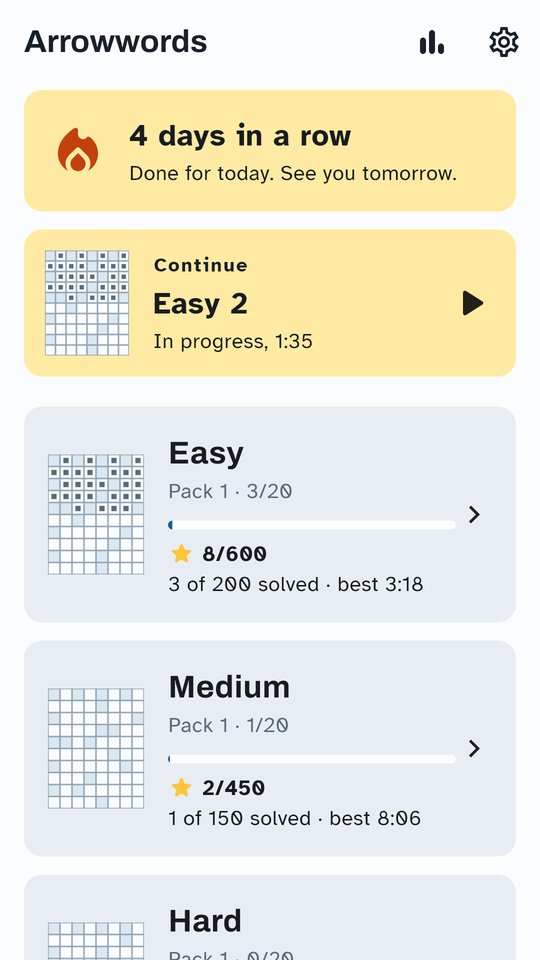
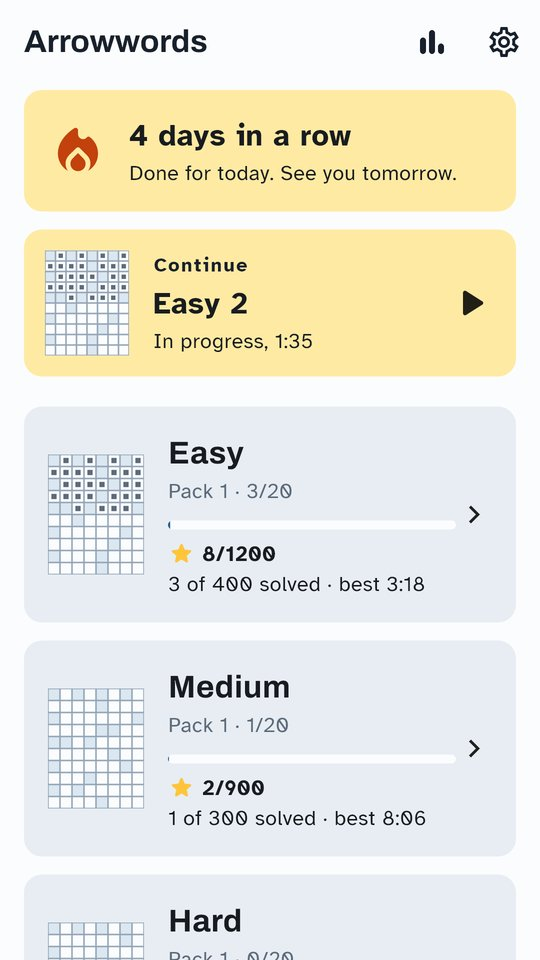
Arrowwords: Danish in the language lists; 1,000 puzzles each in American English, British English, Dutch, Polish and Danish, 500 in the other five (7,500 in all); Check is free 3 times per puzzle, then 1 hint (as in the listings); screenshots from the current en-US store shots. Pushed ahead of the 1

Changed region(s): [[0.3852, 0.8125, 0.8, 0.875], [0.3852, 0.5625, 0.5926, 0.625], [0.6222, 0.5938, 0.8, 0.625]]

diff --git a/arrowwords/index.html b/arrowwords/index.html
@@ -4,7 +4,7 @@
     <meta charset="utf-8" />
     <meta name="viewport" content="width=device-width, initial-scale=1" />
     <title>Arrowwords: Arrowword Puzzles for Android</title>
-    <meta name="description" content="Arrowword puzzles like the ones in a puzzle magazine, with the clues inside the grid. 5,000 puzzles in English, Dutch, German, Czech, Hungarian, Polish, Norwegian and Swedish, each written in its own language. Three levels, a built-in keyboard, and it plays offline." />
+    <meta name="description" content="Arrowword puzzles like the ones in a puzzle magazine, with the clues inside the grid. 7,500 puzzles in English, Dutch, German, Czech, Hungarian, Polish, Norwegian, Swedish and Danish, each written in its own language. Three levels, a built-in keyboard, and it plays offline." />
     <link rel="icon" type="image/png" href="img/favicon.png" />
     <link rel="apple-touch-icon" href="img/icon.png" />
     <link rel="canonical" href="https://driftsparklabs.github.io/arrowwords/" />
@@ -23,7 +23,7 @@
       "image": "https://driftsparklabs.github.io/arrowwords/img/icon.png",
       "operatingSystem": "ANDROID",
       "applicationCategory": "GameApplication",
-      "description": "Arrowword puzzles with the clues inside the grid: 500 puzzles each in American English, British English, Dutch, German, Czech, Hungarian, Norwegian and Swedish, and 1,000 in Polish, written in the language itself. Three levels, a built-in keyboard, free checking, and every puzzle inside the app.",
+      "description": "Arrowword puzzles with the clues inside the grid: 1,000 puzzles each in American English, British English, Dutch, Polish and Danish, and 500 each in German, Czech, Hungarian, Norwegian and Swedish, written in the language itself. Three levels, a built-in keyboard, and every puzzle inside the app.",
       "url": "https://driftsparklabs.github.io/arrowwords/",
       "installUrl": "https://play.google.com/store/apps/details?id=com.driftspark.labs.arrowwords",
       "author": { "@type": "Organization", "name": "Driftspark Labs", "url": "https://driftsparklabs.github.io/" },
@@ -143,9 +143,9 @@
           <h1>The arrowword from the puzzle magazine, on your phone</h1>
           <p class="pitch">
             The clue sits in a cell of the grid and an arrow shows where the
-            answer goes. 500 puzzles in American English and 500 in British
-            English, plus 500 each in Dutch, German, Czech, Hungarian, Norwegian and
-            Swedish, and 1,000 in Polish.
+            answer goes. 1,000 puzzles each in American English, British
+            English, Dutch, Polish and Danish, and 500 each in German, Czech,
+            Hungarian, Norwegian and Swedish.
             Every set is written in its own language, not translated.
           </p>
           <a class="store-badge" href="https://play.google.com/store/apps/details?id=com.driftspark.labs.arrowwords">
@@ -163,7 +163,7 @@
         <li><b>Easy to read</b><p>The clue for the selected word is shown large above the keyboard, so you never have to read the small cells. Zoom the grid if that reads better.</p></li>
         <li><b>Three levels</b><p>Easy, medium and hard, all the same size. The higher the level, the rarer the words and the harder the clues. Solve 10 in a pack of 20 and the next one opens.</p></li>
         <li><b>A built-in keyboard</b><p>No autocorrect getting in the way. It follows your phone's layout, such as QWERTY or AZERTY. Tap a cell twice to switch direction.</p></li>
-        <li><b>Help when you are stuck</b><p>Checking is free: wrong letters turn red. Revealing a letter or a word costs hints, and your hints are topped up to 10 every day.</p></li>
+        <li><b>Help when you are stuck</b><p>Check turns wrong letters red: free 3 times per puzzle, then 1 hint. Revealing a letter or a word costs hints, and your hints are topped up to 10 every day.</p></li>
         <li><b>Challenge a friend</b><p>After a puzzle, send the empty grid with your time. Your friend plays the same puzzle and sees the time to beat.</p></li>
         <li><b>Play anywhere</b><p>All puzzles are inside the app. No internet and no account needed. Unlimited hints are a one-time purchase, no subscription.</p></li>
       </ul>

diff --git a/index.html b/index.html
@@ -74,7 +74,7 @@
         <img src="arrowwords/img/icon.png" width="256" height="256" alt="Arrowwords app icon" />
         <div>
         <h3><a href="arrowwords/">Arrowwords</a></h3>
-        <p>Arrowword puzzles for Android with the clues inside the grid, written in the language itself: English, Dutch, German, Czech, Hungarian, Polish, Norwegian and Swedish.</p>
+        <p>Arrowword puzzles for Android with the clues inside the grid, written in the language itself: English, Dutch, German, Czech, Hungarian, Polish, Norwegian, Swedish and Danish.</p>
         <a href="arrowwords/">Learn more &rarr;</a> &nbsp;&middot;&nbsp;
         <a href="https://play.google.com/store/apps/details?id=com.driftspark.labs.arrowwords">View on Google Play &rarr;</a>
         </div>
